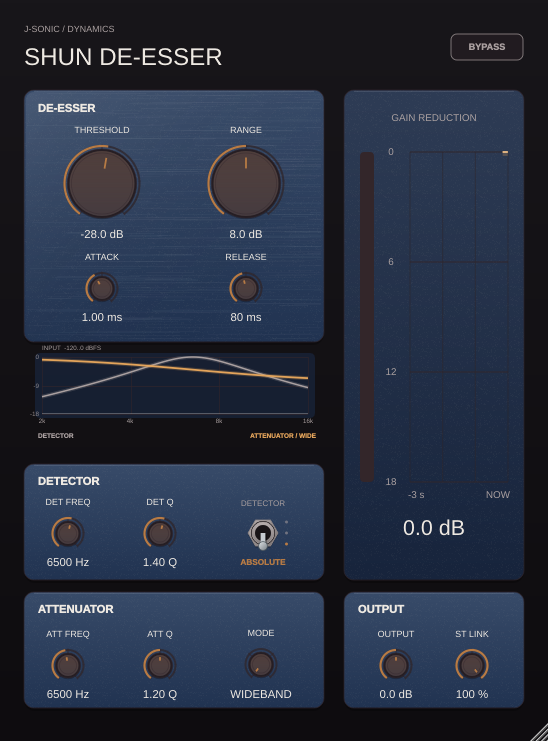
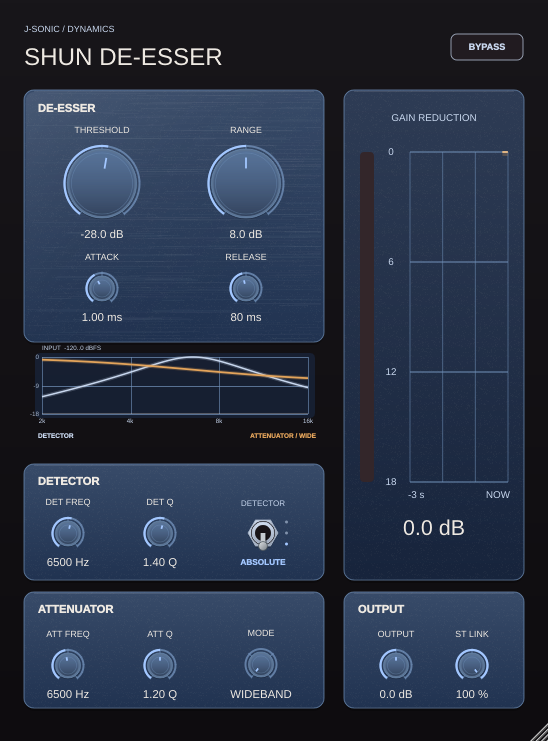
Align Nian and Shun knob colors with their blue palettes

diff --git a/projects/NianSaturator/Source/PluginEditor.cpp b/projects/NianSaturator/Source/PluginEditor.cpp
@@ -2,15 +2,29 @@
 #include "../../EditorScaling.h"
 #include "../../EditorTooltips.h"
 using namespace stageStyle;
+namespace
+{
+const auto nianPanel = juce::Colour (0xff29445a);
+const auto nianAccent = juce::Colour (0xff8cd8ff);
+const auto nianLabel = juce::Colour (0xffc9ddec);
+const auto nianGrid = juce::Colour (0xff42627b);
+}
 NianSaturatorEditor::NianSaturatorEditor (NianSaturatorProcessor& p) : AudioProcessorEditor (&p), signalDisplay (p)
 {
+    look.accentColour = nianAccent;
+    look.markColour = nianLabel;
+    look.trackColour = nianGrid;
+    look.dialTopColour = juce::Colour (0xff41657d);
+    look.dialBottomColour = juce::Colour (0xff1d3448);
+    bypass.accentColour = nianAccent;
+    bypass.panelColour = nianPanel;
     addAndMakeVisible (titleHint);
     addAndMakeVisible (signalDisplay);
     signalDisplay.setTooltip ("Stacks the generated-delta spectrum above the input spectrum and shows the actual output around the crossover.");
     setOpaque (true); setLookAndFeel (&look);
-    look.setColour (juce::TooltipWindow::backgroundColourId, panel);
+    look.setColour (juce::TooltipWindow::backgroundColourId, nianPanel);
     look.setColour (juce::TooltipWindow::textColourId, foreground);
-    look.setColour (juce::TooltipWindow::outlineColourId, grid);
+    look.setColour (juce::TooltipWindow::outlineColourId, nianGrid);
     addAndMakeVisible (bypass);
     bypass.setTooltip ("Bypasses processing while preserving the plugin's latency.");
     bypassAttachment = std::make_unique<State::ButtonAttachment> (p.parameters, "bypass", bypass);
@@ -36,15 +50,15 @@ NianSaturatorEditor::NianSaturatorEditor (NianSaturatorProcessor& p) : AudioProc
         labels[i].setText (names[i], juce::dontSendNotification);
         labels[i].setJustificationType (juce::Justification::centred);
         labels[i].setFont (juce::FontOptions (10.0f));
-        labels[i].setColour (juce::Label::textColourId, secondary);
+        labels[i].setColour (juce::Label::textColourId, nianLabel);
         addAndMakeVisible (slider); addAndMakeVisible (labels[i]);
         attachments[i] = std::make_unique<State::SliderAttachment> (p.parameters, ids[i], slider);
         editorTooltips::setHint (slider, labels[i], hints[i]);
     }
-    mode.setColour (juce::ComboBox::backgroundColourId, panel);
+    mode.setColour (juce::ComboBox::backgroundColourId, nianPanel);
     mode.setColour (juce::ComboBox::textColourId, foreground);
-    mode.setColour (juce::ComboBox::outlineColourId, grid);
-    mode.setColour (juce::ComboBox::arrowColourId, amber);
+    mode.setColour (juce::ComboBox::outlineColourId, nianGrid);
+    mode.setColour (juce::ComboBox::arrowColourId, nianAccent);
     mode.addItem ("F / PEAK",1); mode.addItem ("T / DRIVE",2);
     mode.setTooltip ("Selects short twelve-band transient enhancement or dynamically softened tube-style drive.");
     addAndMakeVisible (mode); modeAttachment = std::make_unique<State::ComboBoxAttachment> (p.parameters,"mode",mode);
@@ -84,10 +98,10 @@ void NianSaturatorEditor::paint (juce::Graphics& g)
     g.drawText ("J-SONIC / ADAPTIVE SATURATION", 16, 12, 310, 16, juce::Justification::centredLeft);
     g.setColour (foreground); g.setFont (juce::FontOptions (25.0f));
     g.drawText ("NIAN SATURATOR", 16, 30, 310, 36, juce::Justification::centredLeft);
-    drawPanel (g, { 16, 82, 412, 162 }, juce::Colour (0xff29445a));
+    drawPanel (g, { 16, 82, 412, 162 }, nianPanel);
     g.setColour (foreground); g.setFont (juce::FontOptions (13.0f).withStyle ("bold"));
     g.drawText ("SATURATION", 28, 94, 380, 20, juce::Justification::centredLeft);
-    g.setColour (secondary); g.setFont (juce::FontOptions (9.0f));
+    g.setColour (nianLabel); g.setFont (juce::FontOptions (9.0f));
     g.drawText ("Twelve-band transient lift or gentle tube-style drive", 28, 116, 380, 16, juce::Justification::centredLeft);
     g.restoreState();
 }
@@ -143,11 +157,11 @@ void NianSaturatorEditor::SignalDisplay::refresh()
 }
 void NianSaturatorEditor::SignalDisplay::paint (juce::Graphics& g)
 {
-    drawPanel (g, getLocalBounds().toFloat(), juce::Colour (0xff29445a));
+    drawPanel (g, getLocalBounds().toFloat(), nianPanel);
     g.setColour (foreground); g.setFont (juce::FontOptions (13.f).withStyle ("bold"));
     g.drawText ("SPECTRUM",12,8,150,19,juce::Justification::centredLeft);
     g.setFont (juce::FontOptions (9.f));
-    g.setColour (secondary); g.drawText ("IN",235,12,25,13,juce::Justification::centredLeft);
+    g.setColour (nianAccent); g.drawText ("IN",235,12,25,13,juce::Justification::centredLeft);
     g.setColour (amber); g.drawText ("DELTA",268,12,45,13,juce::Justification::centredLeft);
     g.setColour (foreground); g.drawText ("OUT",328,12,44,13,juce::Justification::centredLeft);
     const auto rate=processor.getDisplaySampleRate();
@@ -161,10 +175,10 @@ void NianSaturatorEditor::SignalDisplay::paint (juce::Graphics& g)
     for(int db=-96;db<=0;db+=24)
     {
         const auto y=bottom-float(db+96)/96.f*(bottom-top);
-        g.setColour(grid.withAlpha(.55f)); g.drawLine(left,y,right,y,.7f);
+        g.setColour(nianGrid.withAlpha(.55f)); g.drawLine(left,y,right,y,.7f);
     }
     for(const float hz : {100.f,1000.f,10000.f})
-        if(hz<maxHz) { const auto x=xFor(hz); g.setColour(grid.withAlpha(.35f)); g.drawLine(x,top,x,bottom,.7f); }
+        if(hz<maxHz) { const auto x=xFor(hz); g.setColour(nianGrid.withAlpha(.35f)); g.drawLine(x,top,x,bottom,.7f); }
     const auto magnitudeAt=[&](int trace,float center)
     {
         const auto nearest=int(std::floor(center));
@@ -208,12 +222,12 @@ void NianSaturatorEditor::SignalDisplay::paint (juce::Graphics& g)
         deltaArea.lineTo(left+float(pixel),inputY[size_t(pixel)]);
     deltaArea.closeSubPath();
     g.setColour(amber.withAlpha(.18f)); g.fillPath(deltaArea);
-    g.setColour(secondary.withAlpha(.85f)); g.strokePath(inputPath,juce::PathStrokeType(1.f));
+    g.setColour(nianAccent.withAlpha(.85f)); g.strokePath(inputPath,juce::PathStrokeType(1.f));
     g.setColour(amber.withAlpha(.95f)); g.strokePath(stackPath,juce::PathStrokeType(1.3f));
     g.setColour(foreground.withAlpha(.95f)); g.strokePath(outputPath,juce::PathStrokeType(1.25f));
     g.setColour(amber); g.drawLine(marker,top,marker,bottom,1.f);
     g.setFont (juce::FontOptions (9.f));
-    g.setColour (secondary); g.drawText ("LOW / 40 Hz",20,138,85,13,juce::Justification::centredLeft);
+    g.setColour (nianLabel); g.drawText ("LOW / 40 Hz",20,138,85,13,juce::Justification::centredLeft);
     g.drawText ("HIGH / "+juce::String(maxHz/1000.f,1)+" kHz",int(right-103),138,103,13,juce::Justification::centredRight);
     g.setColour (amber); g.drawText (juce::String(int(crossover))+" Hz",int(std::clamp(marker-28,left+85,right-153)),138,56,13,juce::Justification::centred);
 }

diff --git a/projects/ShunDeEsser/Source/PluginEditor.cpp b/projects/ShunDeEsser/Source/PluginEditor.cpp
@@ -88,9 +88,9 @@ void drawBrushedMetalPanel (juce::Graphics& g, juce::Rectangle<float> bounds, fl
 CompressorTheme ebonyTheme()
 {
     return { juce::Colour (0xff100e12), juce::Colour (0xff253a5b), juce::Colour (0xff1a2944),
-        juce::Colour (0xffeee9e2), juce::Colour (0xffaaa0a0), juce::Colour (0xffb77b45),
+        juce::Colour (0xffeee9e2), juce::Colour (0xffc8d7ee), juce::Colour (0xffa3c7ff),
         juce::Colour (0xffe3a45b), juce::Colour (0xff211b20), juce::Colour (0xff33262a),
-        juce::Colour (0xff30262c), juce::Colour (0xff65504a), juce::Colour (0xff30252a) };
+        juce::Colour (0xff7292ba), juce::Colour (0xff56739c), juce::Colour (0xff1c2e4b) };
 }
 }
 

diff --git a/docs/COLOR_PALETTE.md b/docs/COLOR_PALETTE.md
@@ -8,5 +8,7 @@ This follows [Material's color-role guidance](https://github.com/material-compon
 | Xuan Phase | Black `#14171B` | `#AAA0A0` | Cool silver `#BFCAD4` | 7.06:1 | 10.80:1 |
 | Zao Drive | Vivid orange `#A94808` | `#FFF1DF` | Pale gold `#FFEFAD` | 5.22:1 | 5.03:1 |
 | Kuo Stereo / Velvet | Faint blue `#8CB9D3` | Navy `#183447` | Deep blue `#22536E` | 6.17:1 | 3.95:1 |
+| Nian Saturator | Sky blue `#29445A` | `#C9DDEC` | Icy blue `#8CD8FF` | 7.27:1 | 6.47:1 |
+| Shun De-Esser | Sapphire `#253A5B` | `#C8D7EE` | Ice blue `#A3C7FF` | 7.85:1 | 6.63:1 |
 
-Both Kuo editors use a light knob face and dark marks so the controls remain legible on the faint blue panel. Kuo Stereo keeps a dark sound-field inset with lighter blue traces. Zao uses white knob faces, dark pointers, and a pale gold active arc. Xuan's green/red early/late meter colors and separate left/right trace colors retain their signal meaning.
+Both Kuo editors use a light knob face and dark marks so the controls remain legible on the faint blue panel. Kuo Stereo keeps a dark sound-field inset with lighter blue traces. Nian and Shun use blue knob faces and icy-blue active arcs while their spectrum detail highlights remain gold. Zao uses white knob faces, dark pointers, and a pale gold active arc. Xuan's green/red early/late meter colors and separate left/right trace colors retain their signal meaning.
